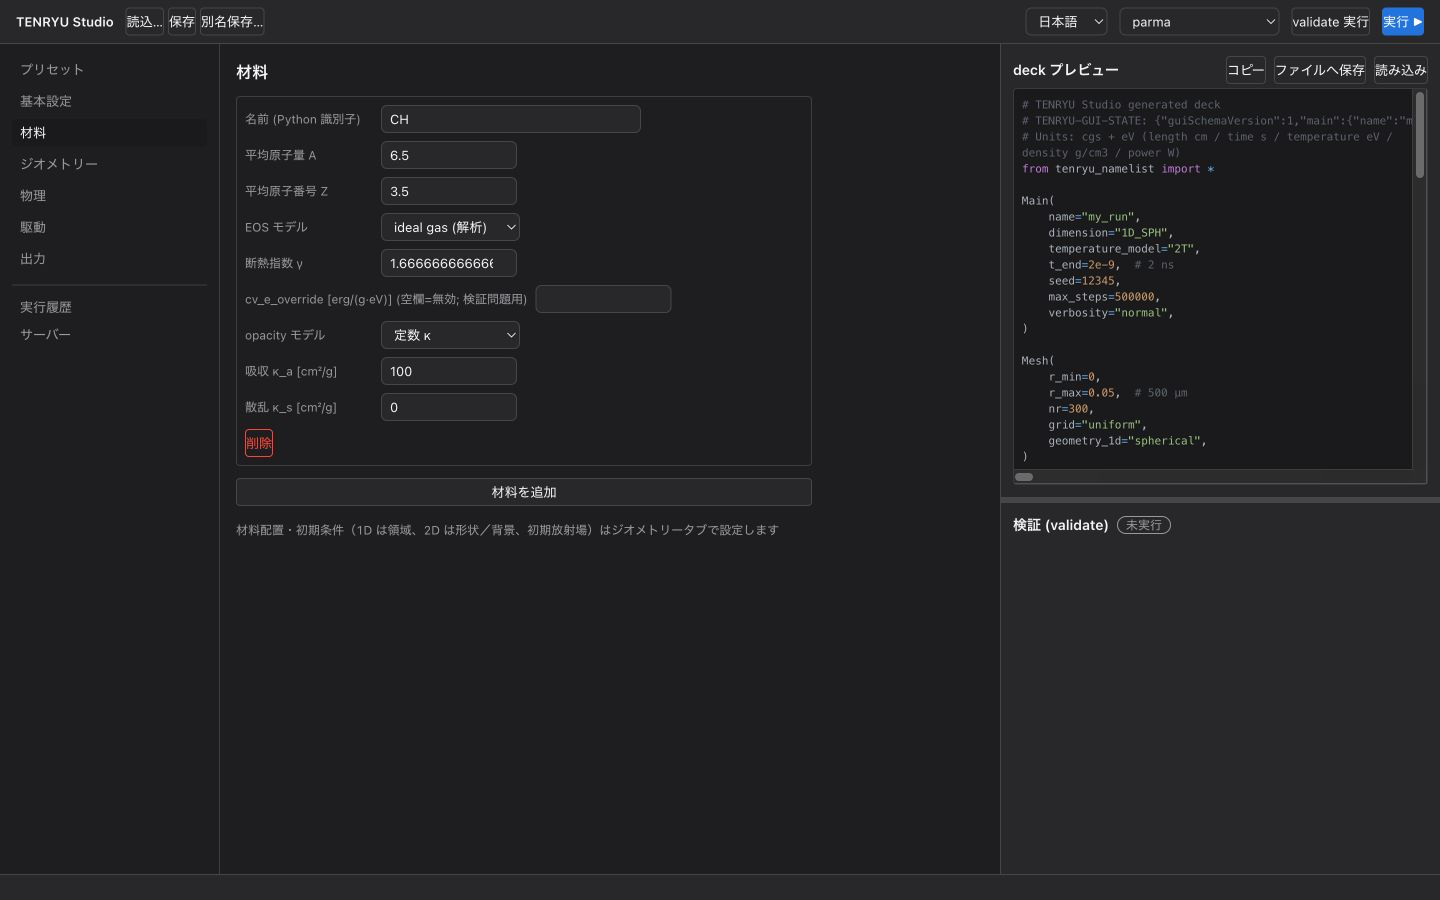
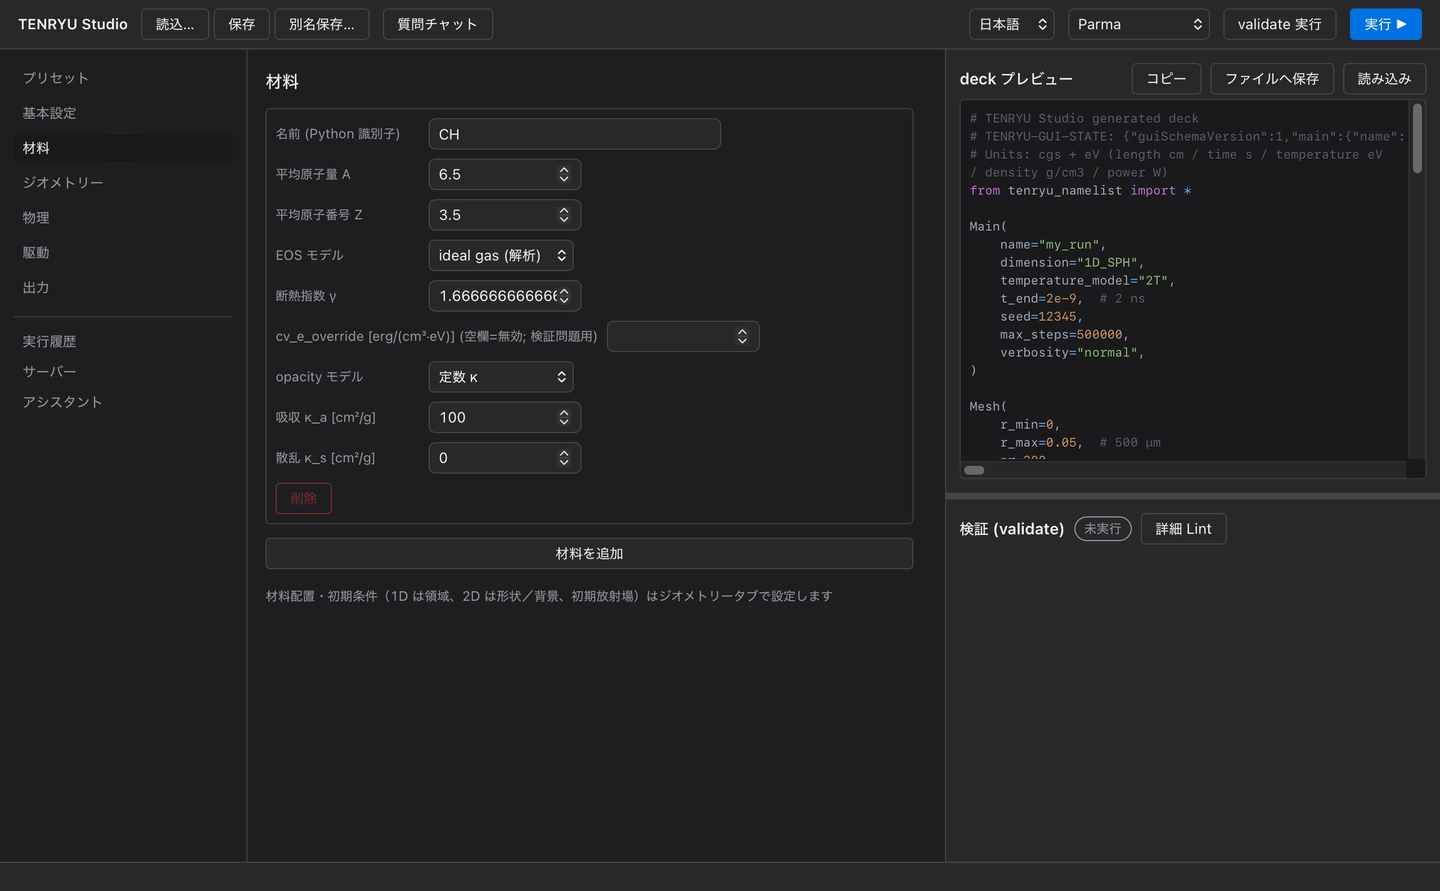
Update to main@b956bded5 — GUI manual Materials screenshots (ja, en) retaken from the rebuilt TENRYU Studio with the cv_e_override unit erg/(cm³·eV)

diff --git a/CHANGELOG.md b/CHANGELOG.md
@@ -33,7 +33,7 @@
 - **燃焼のある 1D の run を途中のチェックポイントから再開すると、燃焼の集計（放出エネルギー・沈着・逃散・中性子の診断）が元の run と最下位ビットで一致しなかった。** チェックポイントは燃料の比インベントリ（1 g あたりの粒子数）を数密度に直して保存し、再開時に密度で割って戻していたため、戻した値が最下位ビットでずれていました。比インベントリをそのまま `burn_state/specific_inventory` にも保存し、再開はこれを使います（無い以前のチェックポイントは従来どおり数密度から戻します）。DD 燃焼のあるデッキを 1 ns と 7 ns から再開した run が、元の run と履歴の全列でビット一致します。
 - **MPI の複数ランクで 1D の run が起動時に止まっていた（2026-07-29 以降）。** 2D の時間積分の選択 `Numerics.hydro.time_integration`（既定 `"midpoint_v1"`）に対する MPI 非対応の検査が 1D にもかかっていました。この選択は 2D でしか使わないので、検査を 2D に限りました。1D の MPI の並列試験（2・4 ランクの最終状態の全場を 1 ランクの run とビットで比較。FLD・S_N・空隙・燃焼・GXII）がすべて通ります。
 - 再開したときに、初期状態向けの「材料ごとの初期全圧の不一致」の警告を出していました（実行中の状態では材料ごとの圧力が違って当然で、参照状態をそろえる助言も当てはまりません）。
-- **GUI（TENRYU Studio）の材料の `cv_e_override` の欄が、単位を erg/(g·eV) と表示していた。** ソルバーはこの値を体積あたりの電子の熱容量 erg/(cm³·eV) として読みます（閉包で密度で割って質量あたりに直す）。欄の表示を erg/(cm³·eV) に直しました。入力した値の扱いと、プリセットの値（1D の放射スラブの 3×10¹¹、2D の放射スラブの 8.68×10¹¹）は変わりません。プリセットの説明と GUI のマニュアルの本文の記載も同じく直しました。
+- **GUI（TENRYU Studio）の材料の `cv_e_override` の欄が、単位を erg/(g·eV) と表示していた。** ソルバーはこの値を体積あたりの電子の熱容量 erg/(cm³·eV) として読みます（閉包で密度で割って質量あたりに直す）。欄の表示を erg/(cm³·eV) に直しました。入力した値の扱いと、プリセットの値（1D の放射スラブの 3×10¹¹、2D の放射スラブの 8.68×10¹¹）は変わりません。プリセットの説明と、GUI のマニュアルの記載と材料の画面の画像（日英）も同じく直しました。
 
 ### ドキュメント・検証系
 
